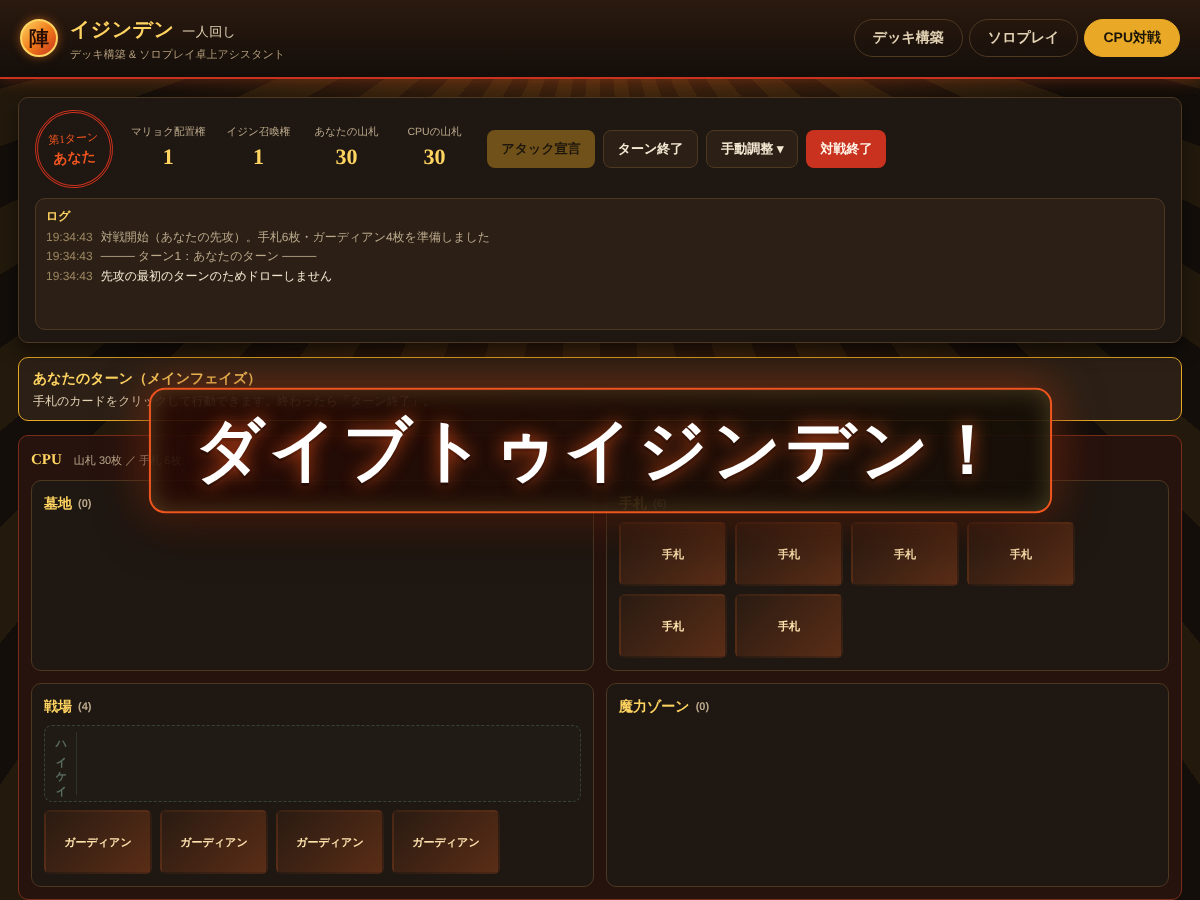
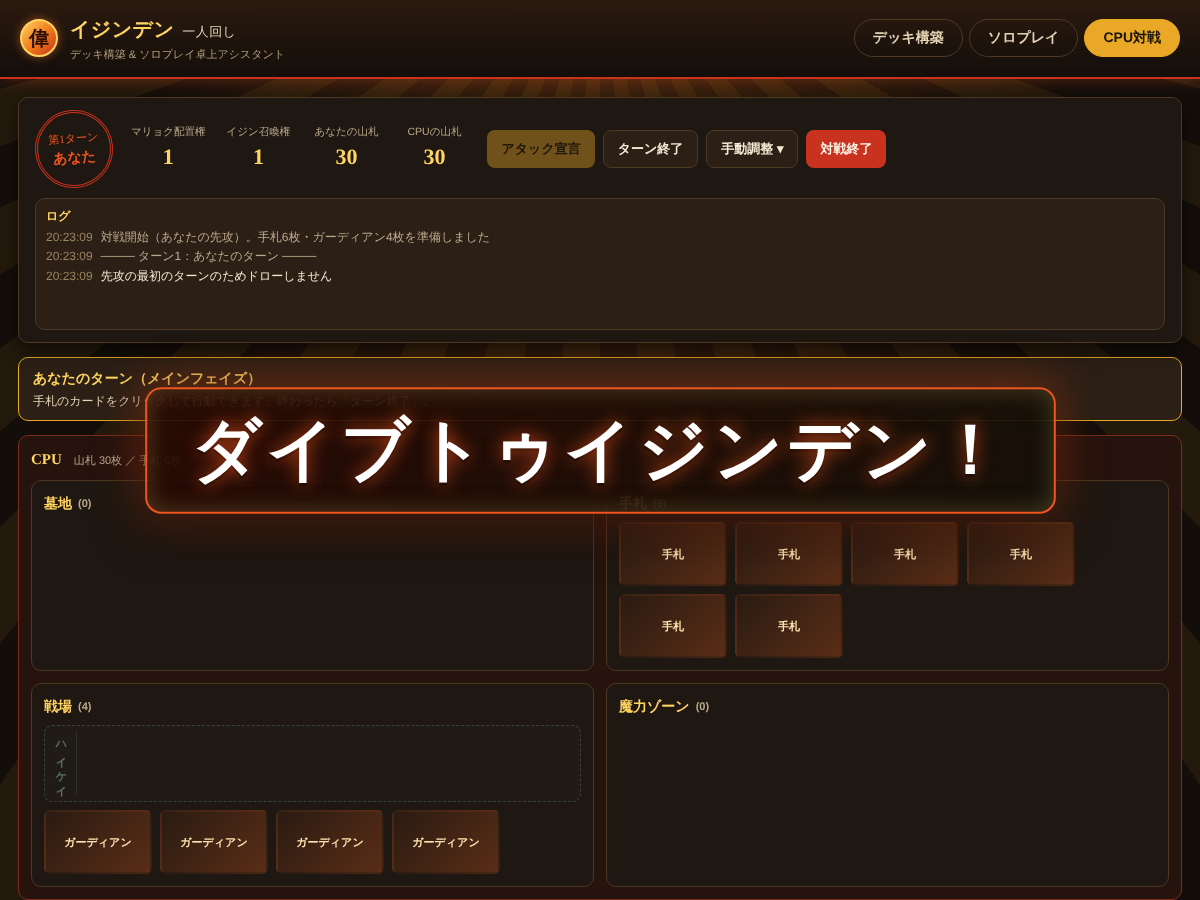
Detailed battle result log: matchup powers, per-card outcome and reason
Claude-Session: https://claude.ai/code/session_019EBEYLAobM15J8kx1PkpNF

diff --git a/js/vs-engine.js b/js/vs-engine.js
@@ -565,11 +565,14 @@
       return resolveBattle(G);
     }
 
+    // ログ表示用「あなたのイジン「織田信長」」「CPUのガーディアン」
+    const who = (pi, inst) => `${pi === 0 ? 'あなた' : 'CPU'}の` + (inst.faceUp ? `${cardOf(inst).type}「${cardOf(inst).name}」` : 'ガーディアン');
     function resolveBattle(G) {
       const atkIdx = G.current, defIdx = 1 - atkIdx;
       const A = G.players[atkIdx], D = G.players[defIdx];
       const blocks = G.battle.blocks;
       const destroyedA = [], destroyedD = [];
+      const records = [];   // ログ用：1体のアタッカーごとのバトルの中身
       let winnerReason = null;
       // バトル解決前に円形闘技場が戦場を離れていたら、ガーディアンはアタッカーでなくなり、それをブロックしていたカードもブロッカーでなくなる
       if (!A.field.some(x => x.faceUp && cardOf(x).name === '円形闘技場')) {
@@ -590,17 +593,23 @@
         const lost = Object.keys(blocks).filter(b => blocks[b] === auid).length - blockers.length;
         if (lost > 0) log(G, `　ブロッカーが${lost}体いなくなりました（ブロッカーの指定は終わっているため、他のカードでは代わりにブロックできません）`);
         if (blockers.length < need) {
+          log(G, `【バトル】${who(atkIdx, att)}（アタック時パワー${attackPowerOf(att, G)}）` + (blockers.length ? ` vs ${blockers.map(b => who(defIdx, b)).join('＋')}` : '') +
+            ` → ブロッカー${blockers.length}体／必要${need}体のため、${nm(G, defIdx)}は攻撃を防げませんでした`);
           winnerReason = `${att.faceUp ? cardOf(att).name : 'ガーディアン'}の攻撃を防げなかった` + (lost > 0 ? '（ブロッカーが外れて防がれなかった）' : need > 1 ? `（${need}体以上のブロッカーが必要）` : '');
           break;
         }
         const pa = attackPowerOf(att, G);
         const sumB = blockers.reduce((s, b) => s + (b.faceUp ? blockPowerOf(b, G) : 0), 0);
         const attLoses = pa <= sumB;
-        log(G, `バトル解決：${att.faceUp ? cardOf(att).name : 'ガーディアン'}（${pa}） vs ブロッカー${blockers.length}体（合計${sumB}）`);
-        blockers.forEach(b => {
-          const lose = b.faceUp ? blockPowerOf(b, G) <= pa : pa > 0;
-          if (lose) destroyedD.push(b);
+        const bl = blockers.map(b => ({ inst: b, label: who(defIdx, b), power: b.faceUp ? blockPowerOf(b, G) : null }));   // 名前は破壊で表向きになる前に確定
+        log(G, `【バトル】${who(atkIdx, att)}（アタック時パワー${pa}） vs ` +
+          bl.map(x => `${who(defIdx, x.inst)}（${x.power === null ? 'パワーなし' : 'ブロック時パワー' + x.power}）`).join('＋') +
+          (bl.length > 1 ? `　ブロッカー合計${sumB}` : ''));
+        bl.forEach(x => {
+          x.lose = x.power === null ? pa > 0 : x.power <= pa;
+          if (x.lose) destroyedD.push(x.inst);
         });
+        records.push({ att, label: who(atkIdx, att), pa, sumB, attLoses, bl });
         if (attLoses) destroyedA.push(att);
         else if (kwOf(att).mortal) { winnerReason = `${cardOf(att).name}（モータル）がバトルに勝利`; break; }
       }
@@ -618,7 +627,6 @@
           releaseEquips(G, pi, inst);
           inst.faceUp = true; inst.tapped = false; inst.isGuardian = false;
           P.grave.push(inst);
-          log(G, `　破壊：${nm(G, pi)}の${c.name}を墓地へ` + (hasLegacy(c) ? '　※遺業能力あり（自動処理されません）' : ''));
           items.push({ name: c.name, cardId: c.id });
           if (hasLegacy(c)) legacyFx.push({ type: 'legacy', pi, uid: inst.uid, name: c.name, cardId: c.id, text: String(c.legacy_ability).trim() });
         });
@@ -626,6 +634,22 @@
       };
       const dA = toGrave(A, destroyedA, atkIdx);
       const dD = toGrave(D, destroyedD, defIdx);
+      // バトルごとの結果と理由（学習用：どちらのパワーが上回ったから、何が墓地へ行ったか）
+      const gone = (P, inst) => P.grave.includes(inst);
+      const legacyNote = inst => (gone(A, inst) || gone(D, inst)) && hasLegacy(cardOf(inst)) ? '　※遺業能力あり' : '';
+      records.forEach(r => {
+        r.bl.forEach(x => {
+          const n = x.label;
+          if (!x.lose) log(G, `　→ ${n}：ブロック時パワー${x.power} ＞ アタッカー${r.pa} なので生き残り`);
+          else if (!gone(D, x.inst)) log(G, `　→ ${n}：負けたが「破壊されない」ため戦場に残る`);
+          else log(G, `　→ ${n}：` + (x.power === null ? 'ガーディアンはパワーを持たないので' : `ブロック時パワー${x.power} ≦ アタッカー${r.pa} なので`) + `破壊されて墓地へ` + (x.power === null ? `（ガーディアンの正体：${cardOf(x.inst).name}）` : '') + legacyNote(x.inst));
+        });
+        const an = r.label;
+        const onlyGuards = r.bl.every(x => x.power === null);
+        if (!r.attLoses) log(G, `　→ ${an}：` + (onlyGuards ? 'ブロッカーがガーディアンだけ（パワー0）なので生き残り' : `アタック時パワー${r.pa} ＞ ブロッカー${r.bl.length > 1 ? '合計' : ''}${r.sumB} なので生き残り`));
+        else if (!gone(A, r.att)) log(G, `　→ ${an}：負けたが「破壊されない」ため戦場に残る`);
+        else log(G, `　→ ${an}：アタック時パワー${r.pa} ≦ ブロッカー${r.bl.length > 1 ? '合計' : ''}${r.sumB} なので破壊されて墓地へ${legacyNote(r.att)}`);
+      });
       if (dA.length) G.fx.push({ type: 'destroy', pi: atkIdx, items: dA });
       if (dD.length) G.fx.push({ type: 'destroy', pi: defIdx, items: dD });
       if (!dA.length && !dD.length && !winnerReason) G.fx.push({ type: 'nodestroy' });
